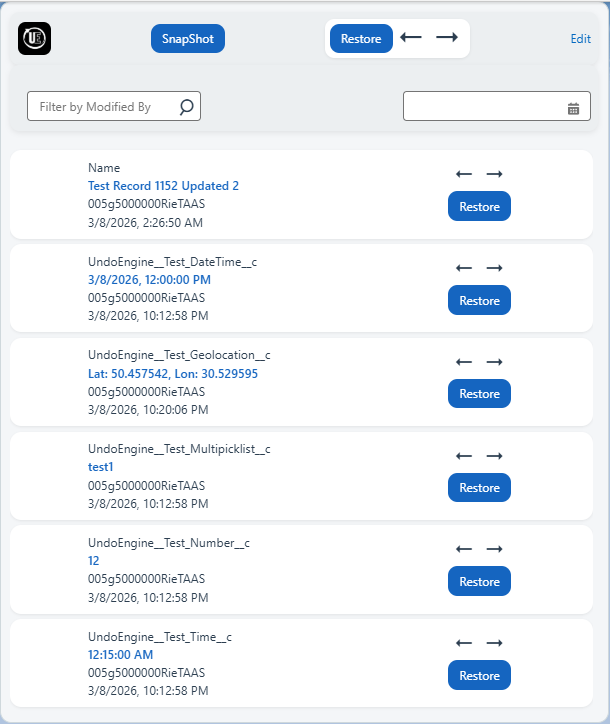
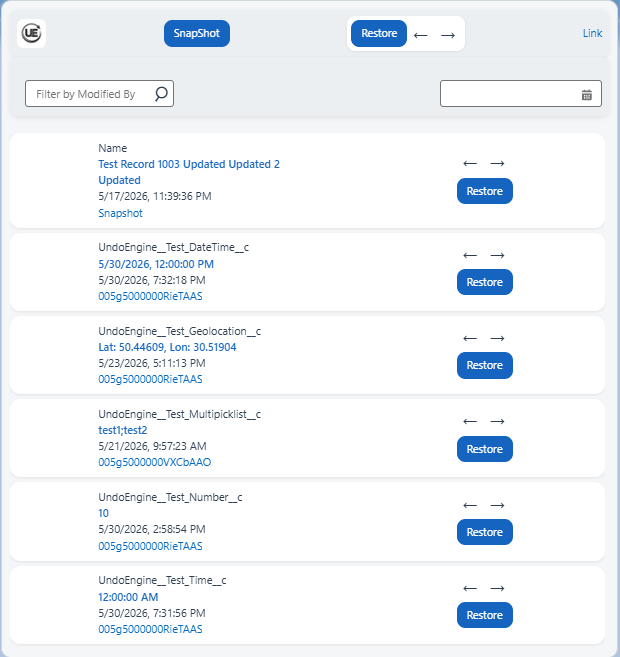
s

diff --git a/index.html b/index.html
@@ -160,6 +160,18 @@
                 </div>
             </div>
 
+            <div class="two-col fade-in">
+                <img src="images/encryption-manager.png" alt="Data Security Manager" class="product-image large right">
+                <div>
+                    <h3>Data Security Manager</h3>
+                    <ul class="checklist">
+                        <li>Generate encryption keys for secure data storage</li>
+                        <li>Enable or disable encryption per configuration</li>
+                        <li>Support key rotation for enhanced security</li>
+                    </ul>
+                </div>
+            </div>
+
         </div>
     </section>
 
